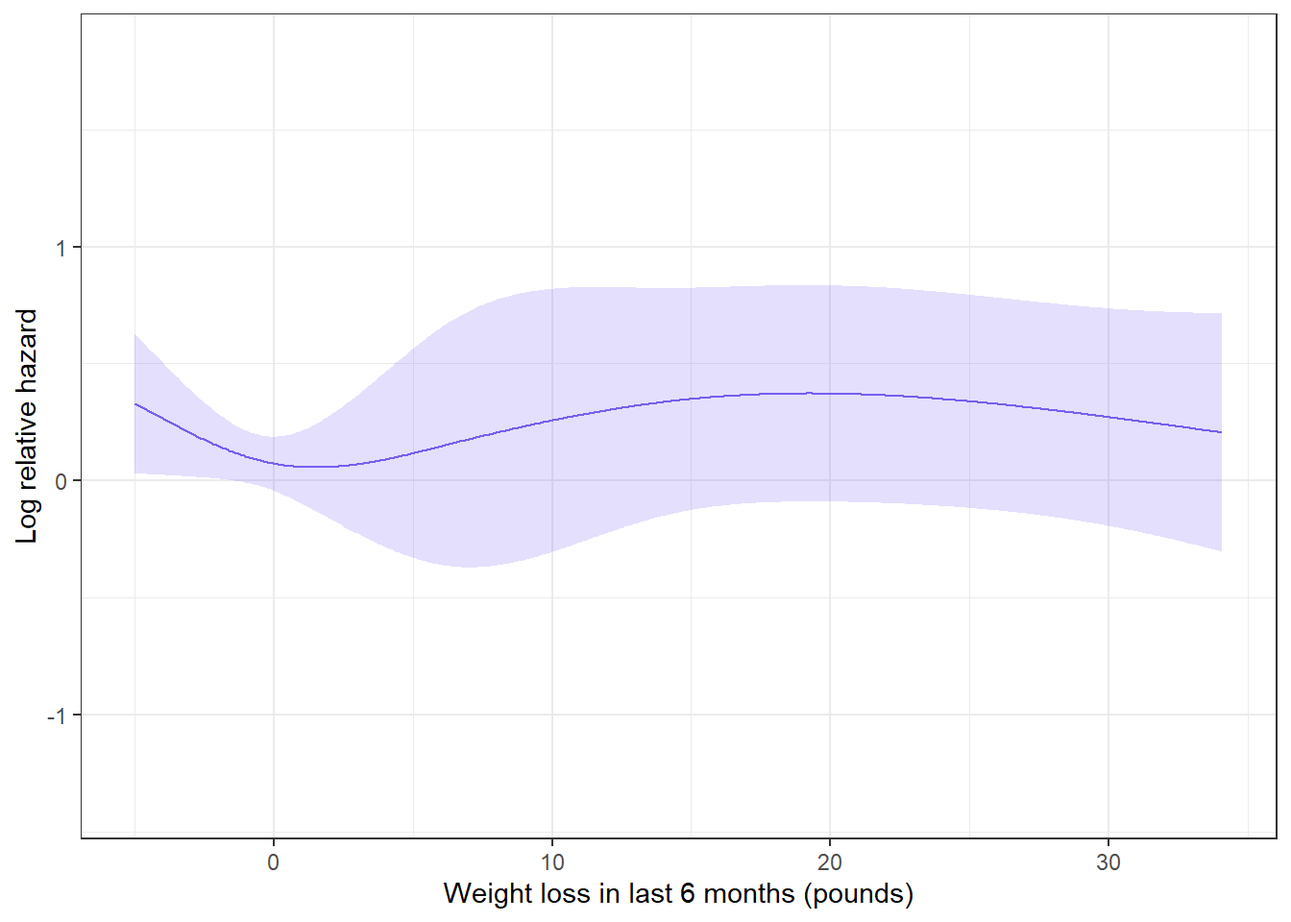
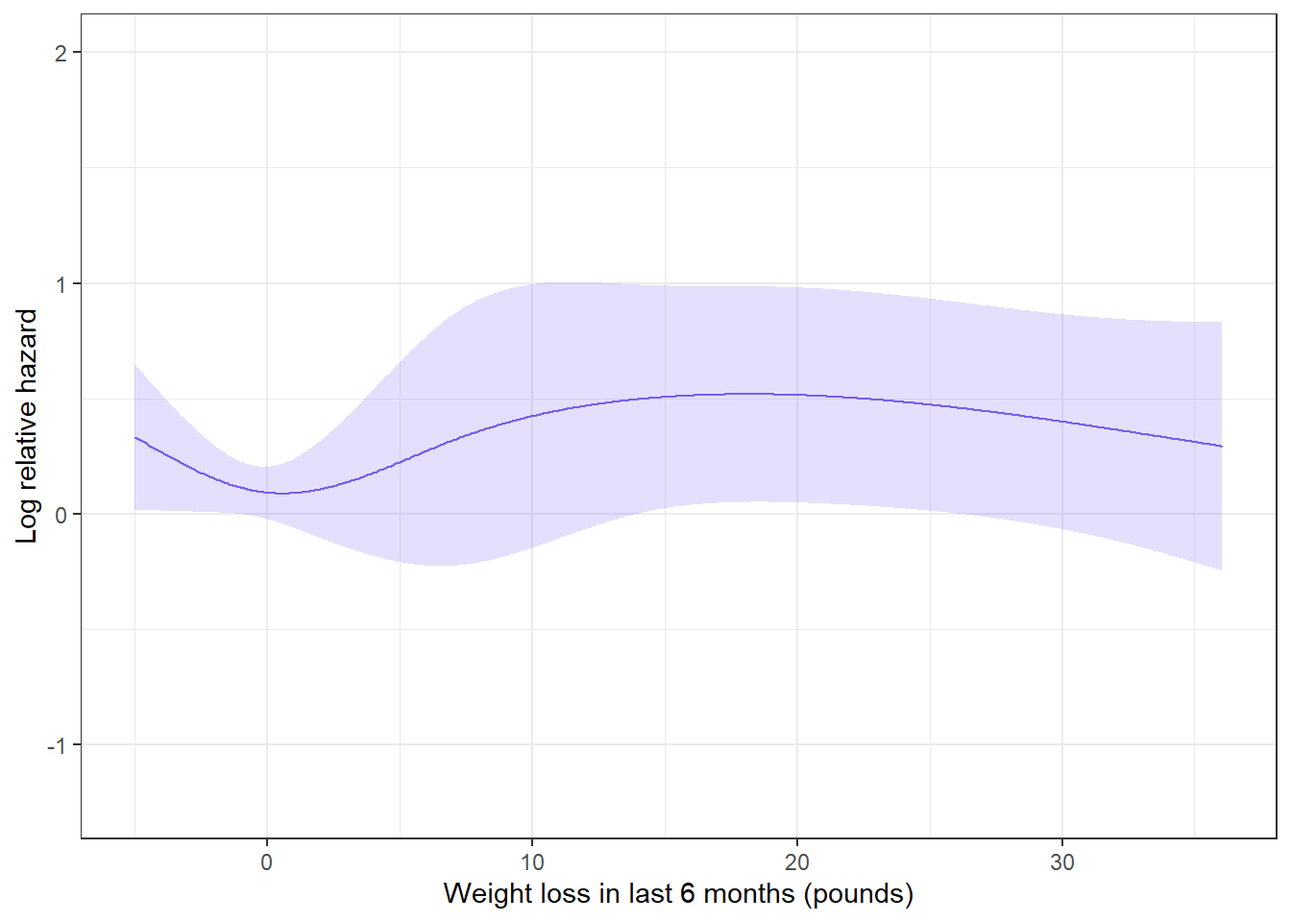
Built site for gh-pages

diff --git a/index.html b/index.html
@@ -849,17 +849,17 @@ Slope: 1.000</code></pre>
 <span id="cb20-2"><a href="#cb20-2"></a><span class="fu">validate</span>(fit_rms)</span></code><button title="Copy to Clipboard" class="code-copy-button"><i class="bi"></i></button></pre></div>
 <div class="cell-output cell-output-stdout">
 <pre><code>          index.orig training    test optimism index.corrected  n
-Dxy           0.5303   0.5310  0.5253   0.0057          0.5246 40
-R2            0.2726   0.2733  0.2670   0.0063          0.2663 40
-Intercept     0.0000   0.0000 -0.0031   0.0031         -0.0031 40
-Slope         1.0000   1.0000  0.9809   0.0191          0.9809 40
-Emax          0.0000   0.0000  0.0048   0.0048          0.0048 40
-D             0.2243   0.2249  0.2191   0.0058          0.2185 40
-U            -0.0009  -0.0009  0.0002  -0.0011          0.0002 40
-Q             0.2252   0.2259  0.2189   0.0069          0.2183 40
-B             0.1879   0.1875  0.1891  -0.0016          0.1894 40
-g             1.2470   1.2526  1.2304   0.0222          1.2248 40
-gp            0.2538   0.2537  0.2510   0.0027          0.2511 40</code></pre>
+Dxy           0.5303   0.5356  0.5253   0.0102          0.5200 40
+R2            0.2726   0.2792  0.2673   0.0119          0.2606 40
+Intercept     0.0000   0.0000 -0.0299   0.0299         -0.0299 40
+Slope         1.0000   1.0000  0.9695   0.0305          0.9695 40
+Emax          0.0000   0.0000  0.0121   0.0121          0.0121 40
+D             0.2243   0.2309  0.2194   0.0114          0.2129 40
+U            -0.0009  -0.0009  0.0003  -0.0013          0.0003 40
+Q             0.2252   0.2318  0.2191   0.0127          0.2125 40
+B             0.1879   0.1872  0.1890  -0.0019          0.1897 40
+g             1.2470   1.2734  1.2321   0.0413          1.2057 40
+gp            0.2538   0.2573  0.2512   0.0061          0.2477 40</code></pre>
 </div>
 </div>
 <p>How do we interpret this output? The <code>validate()</code> function applies resampling, which is a method to account for overfitting, with the results being printed in the ‘index.corrected’ column. However, if we are just interested in the apparent performance, we can just look at ‘index.orig’. To calculate the C-statistic, we can use <span class="math inline">\(c = \frac{Dxy}{2} + 0.5\)</span>. In our case, the C-statistic would be:</p>
@@ -963,11 +963,14 @@ n=2159   Mean absolute error=0.005   Mean squared error=5e-05
 <p>In the lung dataset, we can see that we have more cases than non-cases. In this case, we look at the number of non-cases to get an idea of the risk of overfitting. Given the already small sample size and the small number of non-cases (n = 69, 30.3%), we likely have a high risk of overfitting. Given the scope of this practical, we will leave that be for now, but recommend that in real research settings, you evaluate this risk and carefully choose a path forward.</p>
 <p>Because age and weight loss are continuous, we should investigate whether adding them as a linear term is sufficient or if we should model them non-linearly. Instead of the predicted probability, we plot the log relative hazard as a function of the predictor, using a function from <code>{Hmisc}</code>, which combines functions from <code>{rms}</code> and <code>{survival}</code>.</p>
 <div class="cell">
-<div class="sourceCode cell-code" id="cb32"><pre class="sourceCode numberSource r number-lines code-with-copy"><code class="sourceCode r"><span id="cb32-1"><a href="#cb32-1"></a><span class="co"># Model the outcome as a function of age</span></span>
-<span id="cb32-2"><a href="#cb32-2"></a>dat_plot <span class="ot">&lt;-</span> <span class="fu">do.call</span>(<span class="st">"cbind"</span>, <span class="fu">rcspline.plot</span>(<span class="at">x =</span> lung[[<span class="st">"age"</span>]], <span class="at">y =</span> lung[[<span class="st">"time"</span>]], <span class="at">noprint =</span> <span class="cn">TRUE</span>,</span>
-<span id="cb32-3"><a href="#cb32-3"></a>                                           <span class="at">event =</span> lung[[<span class="st">"status"</span>]], <span class="at">model =</span> <span class="st">"cox"</span>, <span class="at">statloc =</span> <span class="st">"none"</span>)) <span class="sc">%&gt;%</span></span>
-<span id="cb32-4"><a href="#cb32-4"></a>    <span class="co"># Change to data frame</span></span>
-<span id="cb32-5"><a href="#cb32-5"></a>    <span class="fu">as.data.frame</span>()</span></code><button title="Copy to Clipboard" class="code-copy-button"><i class="bi"></i></button></pre></div>
+<div class="sourceCode cell-code" id="cb32"><pre class="sourceCode numberSource r number-lines code-with-copy"><code class="sourceCode r"><span id="cb32-1"><a href="#cb32-1"></a><span class="co"># Set seed for random process</span></span>
+<span id="cb32-2"><a href="#cb32-2"></a><span class="fu">set.seed</span>(<span class="dv">1</span>)</span>
+<span id="cb32-3"><a href="#cb32-3"></a></span>
+<span id="cb32-4"><a href="#cb32-4"></a><span class="co"># Model the outcome as a function of age</span></span>
+<span id="cb32-5"><a href="#cb32-5"></a>dat_plot <span class="ot">&lt;-</span> <span class="fu">do.call</span>(<span class="st">"cbind"</span>, <span class="fu">rcspline.plot</span>(<span class="at">x =</span> lung[[<span class="st">"age"</span>]], <span class="at">y =</span> lung[[<span class="st">"time"</span>]], <span class="at">noprint =</span> <span class="cn">TRUE</span>,</span>
+<span id="cb32-6"><a href="#cb32-6"></a>                                           <span class="at">event =</span> lung[[<span class="st">"status"</span>]], <span class="at">model =</span> <span class="st">"cox"</span>, <span class="at">statloc =</span> <span class="st">"none"</span>)) <span class="sc">%&gt;%</span></span>
+<span id="cb32-7"><a href="#cb32-7"></a>    <span class="co"># Change to data frame</span></span>
+<span id="cb32-8"><a href="#cb32-8"></a>    <span class="fu">as.data.frame</span>()</span></code><button title="Copy to Clipboard" class="code-copy-button"><i class="bi"></i></button></pre></div>
 </div>
 <p>Although the function already gives us a plot, the author of this practical is of the opinion that it is quite an ugly plot, so we will plot it ourselves:</p>
 <div class="cell">
@@ -993,11 +996,14 @@ n=2159   Mean absolute error=0.005   Mean squared error=5e-05
 </div>
 <p>Now we repeat this for weight loss.</p>
 <div class="cell">
-<div class="sourceCode cell-code" id="cb34"><pre class="sourceCode numberSource r number-lines code-with-copy"><code class="sourceCode r"><span id="cb34-1"><a href="#cb34-1"></a><span class="co"># Model the outcome as a function of age</span></span>
-<span id="cb34-2"><a href="#cb34-2"></a>dat_plot <span class="ot">&lt;-</span> <span class="fu">do.call</span>(<span class="st">"cbind"</span>, <span class="fu">rcspline.plot</span>(<span class="at">x =</span> lung[[<span class="st">"wt.loss"</span>]], <span class="at">y =</span> lung[[<span class="st">"time"</span>]], <span class="at">noprint =</span> <span class="cn">TRUE</span>,</span>
-<span id="cb34-3"><a href="#cb34-3"></a>                                           <span class="at">event =</span> lung[[<span class="st">"status"</span>]], <span class="at">model =</span> <span class="st">"cox"</span>, <span class="at">statloc =</span> <span class="st">"none"</span>)) <span class="sc">%&gt;%</span></span>
-<span id="cb34-4"><a href="#cb34-4"></a>    <span class="co"># Change to data frame</span></span>
-<span id="cb34-5"><a href="#cb34-5"></a>    <span class="fu">as.data.frame</span>()</span></code><button title="Copy to Clipboard" class="code-copy-button"><i class="bi"></i></button></pre></div>
+<div class="sourceCode cell-code" id="cb34"><pre class="sourceCode numberSource r number-lines code-with-copy"><code class="sourceCode r"><span id="cb34-1"><a href="#cb34-1"></a><span class="co"># Set seed for random process</span></span>
+<span id="cb34-2"><a href="#cb34-2"></a><span class="fu">set.seed</span>(<span class="dv">1</span>)</span>
+<span id="cb34-3"><a href="#cb34-3"></a></span>
+<span id="cb34-4"><a href="#cb34-4"></a><span class="co"># Model the outcome as a function of age</span></span>
+<span id="cb34-5"><a href="#cb34-5"></a>dat_plot <span class="ot">&lt;-</span> <span class="fu">do.call</span>(<span class="st">"cbind"</span>, <span class="fu">rcspline.plot</span>(<span class="at">x =</span> lung[[<span class="st">"wt.loss"</span>]], <span class="at">y =</span> lung[[<span class="st">"time"</span>]], <span class="at">noprint =</span> <span class="cn">TRUE</span>,</span>
+<span id="cb34-6"><a href="#cb34-6"></a>                                           <span class="at">event =</span> lung[[<span class="st">"status"</span>]], <span class="at">model =</span> <span class="st">"cox"</span>, <span class="at">statloc =</span> <span class="st">"none"</span>)) <span class="sc">%&gt;%</span></span>
+<span id="cb34-7"><a href="#cb34-7"></a>    <span class="co"># Change to data frame</span></span>
+<span id="cb34-8"><a href="#cb34-8"></a>    <span class="fu">as.data.frame</span>()</span></code><button title="Copy to Clipboard" class="code-copy-button"><i class="bi"></i></button></pre></div>
 </div>
 <div class="cell">
 <div class="sourceCode cell-code" id="cb35"><pre class="sourceCode numberSource r number-lines code-with-copy"><code class="sourceCode r"><span id="cb35-1"><a href="#cb35-1"></a><span class="co"># Get plot</span></span>
@@ -1060,26 +1066,26 @@ coxph(formula = Surv(time, status) ~ age + sex + ns(wt.loss,
 
   n= 228, number of events= 159 
 
-                                    coef exp(coef)  se(coef)      z Pr(&gt;|z|)   
-age                             0.017809  1.017969  0.009462  1.882  0.05982 . 
-sex                            -0.540116  0.582680  0.171409 -3.151  0.00163 **
-ns(wt.loss, knots = c(0, 17))1 -0.382050  0.682461  0.470259 -0.812  0.41655   
-ns(wt.loss, knots = c(0, 17))2 -3.139707  0.043295  1.560816 -2.012  0.04426 * 
-ns(wt.loss, knots = c(0, 17))3 -1.115881  0.327627  0.922212 -1.210  0.22628   
+                                   coef exp(coef) se(coef)      z Pr(&gt;|z|)   
+age                             0.01697   1.01712  0.00948  1.790  0.07338 . 
+sex                            -0.53810   0.58386  0.17178 -3.132  0.00173 **
+ns(wt.loss, knots = c(0, 17))1 -0.09615   0.90833  0.49101 -0.196  0.84475   
+ns(wt.loss, knots = c(0, 17))2 -2.76263   0.06313  1.70809 -1.617  0.10580   
+ns(wt.loss, knots = c(0, 17))3 -1.17397   0.30914  0.97006 -1.210  0.22620   
 ---
 Signif. codes:  0 '***' 0.001 '**' 0.01 '*' 0.05 '.' 0.1 ' ' 1
 
                                exp(coef) exp(-coef) lower .95 upper .95
-age                               1.0180     0.9823  0.999264    1.0370
-sex                               0.5827     1.7162  0.416416    0.8153
-ns(wt.loss, knots = c(0, 17))1    0.6825     1.4653  0.271515    1.7154
-ns(wt.loss, knots = c(0, 17))2    0.0433    23.0971  0.002032    0.9226
-ns(wt.loss, knots = c(0, 17))3    0.3276     3.0523  0.053752    1.9970
+age                              1.01712     0.9832   0.99839    1.0362
+sex                              0.58386     1.7127   0.41695    0.8176
+ns(wt.loss, knots = c(0, 17))1   0.90833     1.1009   0.34697    2.3779
+ns(wt.loss, knots = c(0, 17))2   0.06313    15.8415   0.00222    1.7953
+ns(wt.loss, knots = c(0, 17))3   0.30914     3.2348   0.04618    2.0695
 
 Concordance= 0.609  (se = 0.025 )
-Likelihood ratio test= 19.14  on 5 df,   p=0.002
-Wald test            = 18.59  on 5 df,   p=0.002
-Score (logrank) test = 19.15  on 5 df,   p=0.002</code></pre>
+Likelihood ratio test= 18.51  on 5 df,   p=0.002
+Wald test            = 17.61  on 5 df,   p=0.003
+Score (logrank) test = 18.1  on 5 df,   p=0.003</code></pre>
 </div>
 </div>
 <p>We see that weight loss has three coefficients, one for the lowest value through 0 (1), one for 0 through 10 (2), and one for 10 through the highest value (3). Also note that we do not have an intercept: to calculate the final predicted risk, we need to use the baseline hazard instead of the intercept. However, the baseline hazard is different for each timepoint.</p>
@@ -1088,7 +1094,7 @@ Score (logrank) test = 19.15  on 5 df,   p=0.002</code></pre>
 <div class="sourceCode cell-code" id="cb38"><pre class="sourceCode numberSource r number-lines code-with-copy"><code class="sourceCode r"><span id="cb38-1"><a href="#cb38-1"></a><span class="co"># Retrieve baseline hazard at 2 years</span></span>
 <span id="cb38-2"><a href="#cb38-2"></a><span class="fu">filter</span>(<span class="fu">basehaz</span>(fit), time <span class="sc">==</span> <span class="fl">365.25</span> <span class="sc">*</span> <span class="dv">2</span>)[[<span class="st">"hazard"</span>]]</span></code><button title="Copy to Clipboard" class="code-copy-button"><i class="bi"></i></button></pre></div>
 <div class="cell-output cell-output-stdout">
-<pre><code>[1] 2.152039</code></pre>
+<pre><code>[1] 2.147396</code></pre>
 </div>
 </div>
 <p>Discrimination of this model can be calculated using Harrell’s C-statistic: * The function <code>cindex()</code> from the <code>{dynpred}</code> package (does not require model fit, but does require development formula). * The function <code>rcorr.cens()</code> from the <code>{Hmisc}</code> package (does not require model fit, but may be slow). * The function <code>cIndex()</code> from the <code>{intsurv}</code> package.</p>

diff --git a/pint_prd1.html b/pint_prd1.html
@@ -849,17 +849,17 @@ Slope: 1.000</code></pre>
 <span id="cb20-2"><a href="#cb20-2"></a><span class="fu">validate</span>(fit_rms)</span></code><button title="Copy to Clipboard" class="code-copy-button"><i class="bi"></i></button></pre></div>
 <div class="cell-output cell-output-stdout">
 <pre><code>          index.orig training    test optimism index.corrected  n
-Dxy           0.5303   0.5310  0.5253   0.0057          0.5246 40
-R2            0.2726   0.2733  0.2670   0.0063          0.2663 40
-Intercept     0.0000   0.0000 -0.0031   0.0031         -0.0031 40
-Slope         1.0000   1.0000  0.9809   0.0191          0.9809 40
-Emax          0.0000   0.0000  0.0048   0.0048          0.0048 40
-D             0.2243   0.2249  0.2191   0.0058          0.2185 40
-U            -0.0009  -0.0009  0.0002  -0.0011          0.0002 40
-Q             0.2252   0.2259  0.2189   0.0069          0.2183 40
-B             0.1879   0.1875  0.1891  -0.0016          0.1894 40
-g             1.2470   1.2526  1.2304   0.0222          1.2248 40
-gp            0.2538   0.2537  0.2510   0.0027          0.2511 40</code></pre>
+Dxy           0.5303   0.5356  0.5253   0.0102          0.5200 40
+R2            0.2726   0.2792  0.2673   0.0119          0.2606 40
+Intercept     0.0000   0.0000 -0.0299   0.0299         -0.0299 40
+Slope         1.0000   1.0000  0.9695   0.0305          0.9695 40
+Emax          0.0000   0.0000  0.0121   0.0121          0.0121 40
+D             0.2243   0.2309  0.2194   0.0114          0.2129 40
+U            -0.0009  -0.0009  0.0003  -0.0013          0.0003 40
+Q             0.2252   0.2318  0.2191   0.0127          0.2125 40
+B             0.1879   0.1872  0.1890  -0.0019          0.1897 40
+g             1.2470   1.2734  1.2321   0.0413          1.2057 40
+gp            0.2538   0.2573  0.2512   0.0061          0.2477 40</code></pre>
 </div>
 </div>
 <p>How do we interpret this output? The <code>validate()</code> function applies resampling, which is a method to account for overfitting, with the results being printed in the ‘index.corrected’ column. However, if we are just interested in the apparent performance, we can just look at ‘index.orig’. To calculate the C-statistic, we can use <span class="math inline">\(c = \frac{Dxy}{2} + 0.5\)</span>. In our case, the C-statistic would be:</p>
@@ -963,11 +963,14 @@ n=2159   Mean absolute error=0.005   Mean squared error=5e-05
 <p>In the lung dataset, we can see that we have more cases than non-cases. In this case, we look at the number of non-cases to get an idea of the risk of overfitting. Given the already small sample size and the small number of non-cases (n = 69, 30.3%), we likely have a high risk of overfitting. Given the scope of this practical, we will leave that be for now, but recommend that in real research settings, you evaluate this risk and carefully choose a path forward.</p>
 <p>Because age and weight loss are continuous, we should investigate whether adding them as a linear term is sufficient or if we should model them non-linearly. Instead of the predicted probability, we plot the log relative hazard as a function of the predictor, using a function from <code>{Hmisc}</code>, which combines functions from <code>{rms}</code> and <code>{survival}</code>.</p>
 <div class="cell">
-<div class="sourceCode cell-code" id="cb32"><pre class="sourceCode numberSource r number-lines code-with-copy"><code class="sourceCode r"><span id="cb32-1"><a href="#cb32-1"></a><span class="co"># Model the outcome as a function of age</span></span>
-<span id="cb32-2"><a href="#cb32-2"></a>dat_plot <span class="ot">&lt;-</span> <span class="fu">do.call</span>(<span class="st">"cbind"</span>, <span class="fu">rcspline.plot</span>(<span class="at">x =</span> lung[[<span class="st">"age"</span>]], <span class="at">y =</span> lung[[<span class="st">"time"</span>]], <span class="at">noprint =</span> <span class="cn">TRUE</span>,</span>
-<span id="cb32-3"><a href="#cb32-3"></a>                                           <span class="at">event =</span> lung[[<span class="st">"status"</span>]], <span class="at">model =</span> <span class="st">"cox"</span>, <span class="at">statloc =</span> <span class="st">"none"</span>)) <span class="sc">%&gt;%</span></span>
-<span id="cb32-4"><a href="#cb32-4"></a>    <span class="co"># Change to data frame</span></span>
-<span id="cb32-5"><a href="#cb32-5"></a>    <span class="fu">as.data.frame</span>()</span></code><button title="Copy to Clipboard" class="code-copy-button"><i class="bi"></i></button></pre></div>
+<div class="sourceCode cell-code" id="cb32"><pre class="sourceCode numberSource r number-lines code-with-copy"><code class="sourceCode r"><span id="cb32-1"><a href="#cb32-1"></a><span class="co"># Set seed for random process</span></span>
+<span id="cb32-2"><a href="#cb32-2"></a><span class="fu">set.seed</span>(<span class="dv">1</span>)</span>
+<span id="cb32-3"><a href="#cb32-3"></a></span>
+<span id="cb32-4"><a href="#cb32-4"></a><span class="co"># Model the outcome as a function of age</span></span>
+<span id="cb32-5"><a href="#cb32-5"></a>dat_plot <span class="ot">&lt;-</span> <span class="fu">do.call</span>(<span class="st">"cbind"</span>, <span class="fu">rcspline.plot</span>(<span class="at">x =</span> lung[[<span class="st">"age"</span>]], <span class="at">y =</span> lung[[<span class="st">"time"</span>]], <span class="at">noprint =</span> <span class="cn">TRUE</span>,</span>
+<span id="cb32-6"><a href="#cb32-6"></a>                                           <span class="at">event =</span> lung[[<span class="st">"status"</span>]], <span class="at">model =</span> <span class="st">"cox"</span>, <span class="at">statloc =</span> <span class="st">"none"</span>)) <span class="sc">%&gt;%</span></span>
+<span id="cb32-7"><a href="#cb32-7"></a>    <span class="co"># Change to data frame</span></span>
+<span id="cb32-8"><a href="#cb32-8"></a>    <span class="fu">as.data.frame</span>()</span></code><button title="Copy to Clipboard" class="code-copy-button"><i class="bi"></i></button></pre></div>
 </div>
 <p>Although the function already gives us a plot, the author of this practical is of the opinion that it is quite an ugly plot, so we will plot it ourselves:</p>
 <div class="cell">
@@ -993,11 +996,14 @@ n=2159   Mean absolute error=0.005   Mean squared error=5e-05
 </div>
 <p>Now we repeat this for weight loss.</p>
 <div class="cell">
-<div class="sourceCode cell-code" id="cb34"><pre class="sourceCode numberSource r number-lines code-with-copy"><code class="sourceCode r"><span id="cb34-1"><a href="#cb34-1"></a><span class="co"># Model the outcome as a function of age</span></span>
-<span id="cb34-2"><a href="#cb34-2"></a>dat_plot <span class="ot">&lt;-</span> <span class="fu">do.call</span>(<span class="st">"cbind"</span>, <span class="fu">rcspline.plot</span>(<span class="at">x =</span> lung[[<span class="st">"wt.loss"</span>]], <span class="at">y =</span> lung[[<span class="st">"time"</span>]], <span class="at">noprint =</span> <span class="cn">TRUE</span>,</span>
-<span id="cb34-3"><a href="#cb34-3"></a>                                           <span class="at">event =</span> lung[[<span class="st">"status"</span>]], <span class="at">model =</span> <span class="st">"cox"</span>, <span class="at">statloc =</span> <span class="st">"none"</span>)) <span class="sc">%&gt;%</span></span>
-<span id="cb34-4"><a href="#cb34-4"></a>    <span class="co"># Change to data frame</span></span>
-<span id="cb34-5"><a href="#cb34-5"></a>    <span class="fu">as.data.frame</span>()</span></code><button title="Copy to Clipboard" class="code-copy-button"><i class="bi"></i></button></pre></div>
+<div class="sourceCode cell-code" id="cb34"><pre class="sourceCode numberSource r number-lines code-with-copy"><code class="sourceCode r"><span id="cb34-1"><a href="#cb34-1"></a><span class="co"># Set seed for random process</span></span>
+<span id="cb34-2"><a href="#cb34-2"></a><span class="fu">set.seed</span>(<span class="dv">1</span>)</span>
+<span id="cb34-3"><a href="#cb34-3"></a></span>
+<span id="cb34-4"><a href="#cb34-4"></a><span class="co"># Model the outcome as a function of age</span></span>
+<span id="cb34-5"><a href="#cb34-5"></a>dat_plot <span class="ot">&lt;-</span> <span class="fu">do.call</span>(<span class="st">"cbind"</span>, <span class="fu">rcspline.plot</span>(<span class="at">x =</span> lung[[<span class="st">"wt.loss"</span>]], <span class="at">y =</span> lung[[<span class="st">"time"</span>]], <span class="at">noprint =</span> <span class="cn">TRUE</span>,</span>
+<span id="cb34-6"><a href="#cb34-6"></a>                                           <span class="at">event =</span> lung[[<span class="st">"status"</span>]], <span class="at">model =</span> <span class="st">"cox"</span>, <span class="at">statloc =</span> <span class="st">"none"</span>)) <span class="sc">%&gt;%</span></span>
+<span id="cb34-7"><a href="#cb34-7"></a>    <span class="co"># Change to data frame</span></span>
+<span id="cb34-8"><a href="#cb34-8"></a>    <span class="fu">as.data.frame</span>()</span></code><button title="Copy to Clipboard" class="code-copy-button"><i class="bi"></i></button></pre></div>
 </div>
 <div class="cell">
 <div class="sourceCode cell-code" id="cb35"><pre class="sourceCode numberSource r number-lines code-with-copy"><code class="sourceCode r"><span id="cb35-1"><a href="#cb35-1"></a><span class="co"># Get plot</span></span>
@@ -1060,26 +1066,26 @@ coxph(formula = Surv(time, status) ~ age + sex + ns(wt.loss,
 
   n= 228, number of events= 159 
 
-                                    coef exp(coef)  se(coef)      z Pr(&gt;|z|)   
-age                             0.017809  1.017969  0.009462  1.882  0.05982 . 
-sex                            -0.540116  0.582680  0.171409 -3.151  0.00163 **
-ns(wt.loss, knots = c(0, 17))1 -0.382050  0.682461  0.470259 -0.812  0.41655   
-ns(wt.loss, knots = c(0, 17))2 -3.139707  0.043295  1.560816 -2.012  0.04426 * 
-ns(wt.loss, knots = c(0, 17))3 -1.115881  0.327627  0.922212 -1.210  0.22628   
+                                   coef exp(coef) se(coef)      z Pr(&gt;|z|)   
+age                             0.01697   1.01712  0.00948  1.790  0.07338 . 
+sex                            -0.53810   0.58386  0.17178 -3.132  0.00173 **
+ns(wt.loss, knots = c(0, 17))1 -0.09615   0.90833  0.49101 -0.196  0.84475   
+ns(wt.loss, knots = c(0, 17))2 -2.76263   0.06313  1.70809 -1.617  0.10580   
+ns(wt.loss, knots = c(0, 17))3 -1.17397   0.30914  0.97006 -1.210  0.22620   
 ---
 Signif. codes:  0 '***' 0.001 '**' 0.01 '*' 0.05 '.' 0.1 ' ' 1
 
                                exp(coef) exp(-coef) lower .95 upper .95
-age                               1.0180     0.9823  0.999264    1.0370
-sex                               0.5827     1.7162  0.416416    0.8153
-ns(wt.loss, knots = c(0, 17))1    0.6825     1.4653  0.271515    1.7154
-ns(wt.loss, knots = c(0, 17))2    0.0433    23.0971  0.002032    0.9226
-ns(wt.loss, knots = c(0, 17))3    0.3276     3.0523  0.053752    1.9970
+age                              1.01712     0.9832   0.99839    1.0362
+sex                              0.58386     1.7127   0.41695    0.8176
+ns(wt.loss, knots = c(0, 17))1   0.90833     1.1009   0.34697    2.3779
+ns(wt.loss, knots = c(0, 17))2   0.06313    15.8415   0.00222    1.7953
+ns(wt.loss, knots = c(0, 17))3   0.30914     3.2348   0.04618    2.0695
 
 Concordance= 0.609  (se = 0.025 )
-Likelihood ratio test= 19.14  on 5 df,   p=0.002
-Wald test            = 18.59  on 5 df,   p=0.002
-Score (logrank) test = 19.15  on 5 df,   p=0.002</code></pre>
+Likelihood ratio test= 18.51  on 5 df,   p=0.002
+Wald test            = 17.61  on 5 df,   p=0.003
+Score (logrank) test = 18.1  on 5 df,   p=0.003</code></pre>
 </div>
 </div>
 <p>We see that weight loss has three coefficients, one for the lowest value through 0 (1), one for 0 through 10 (2), and one for 10 through the highest value (3). Also note that we do not have an intercept: to calculate the final predicted risk, we need to use the baseline hazard instead of the intercept. However, the baseline hazard is different for each timepoint.</p>
@@ -1088,7 +1094,7 @@ Score (logrank) test = 19.15  on 5 df,   p=0.002</code></pre>
 <div class="sourceCode cell-code" id="cb38"><pre class="sourceCode numberSource r number-lines code-with-copy"><code class="sourceCode r"><span id="cb38-1"><a href="#cb38-1"></a><span class="co"># Retrieve baseline hazard at 2 years</span></span>
 <span id="cb38-2"><a href="#cb38-2"></a><span class="fu">filter</span>(<span class="fu">basehaz</span>(fit), time <span class="sc">==</span> <span class="fl">365.25</span> <span class="sc">*</span> <span class="dv">2</span>)[[<span class="st">"hazard"</span>]]</span></code><button title="Copy to Clipboard" class="code-copy-button"><i class="bi"></i></button></pre></div>
 <div class="cell-output cell-output-stdout">
-<pre><code>[1] 2.152039</code></pre>
+<pre><code>[1] 2.147396</code></pre>
 </div>
 </div>
 <p>Discrimination of this model can be calculated using Harrell’s C-statistic: * The function <code>cindex()</code> from the <code>{dynpred}</code> package (does not require model fit, but does require development formula). * The function <code>rcorr.cens()</code> from the <code>{Hmisc}</code> package (does not require model fit, but may be slow). * The function <code>cIndex()</code> from the <code>{intsurv}</code> package.</p>
